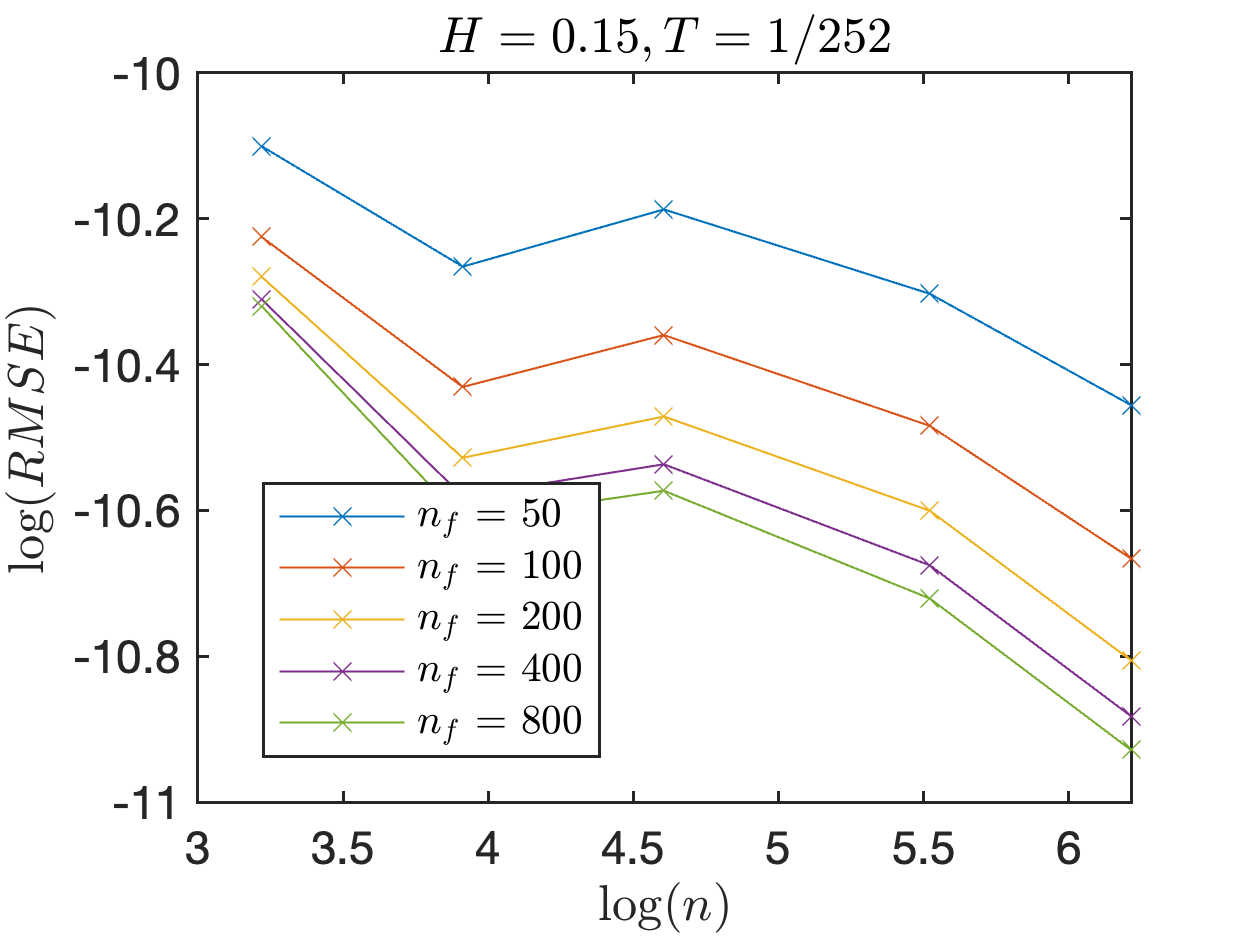
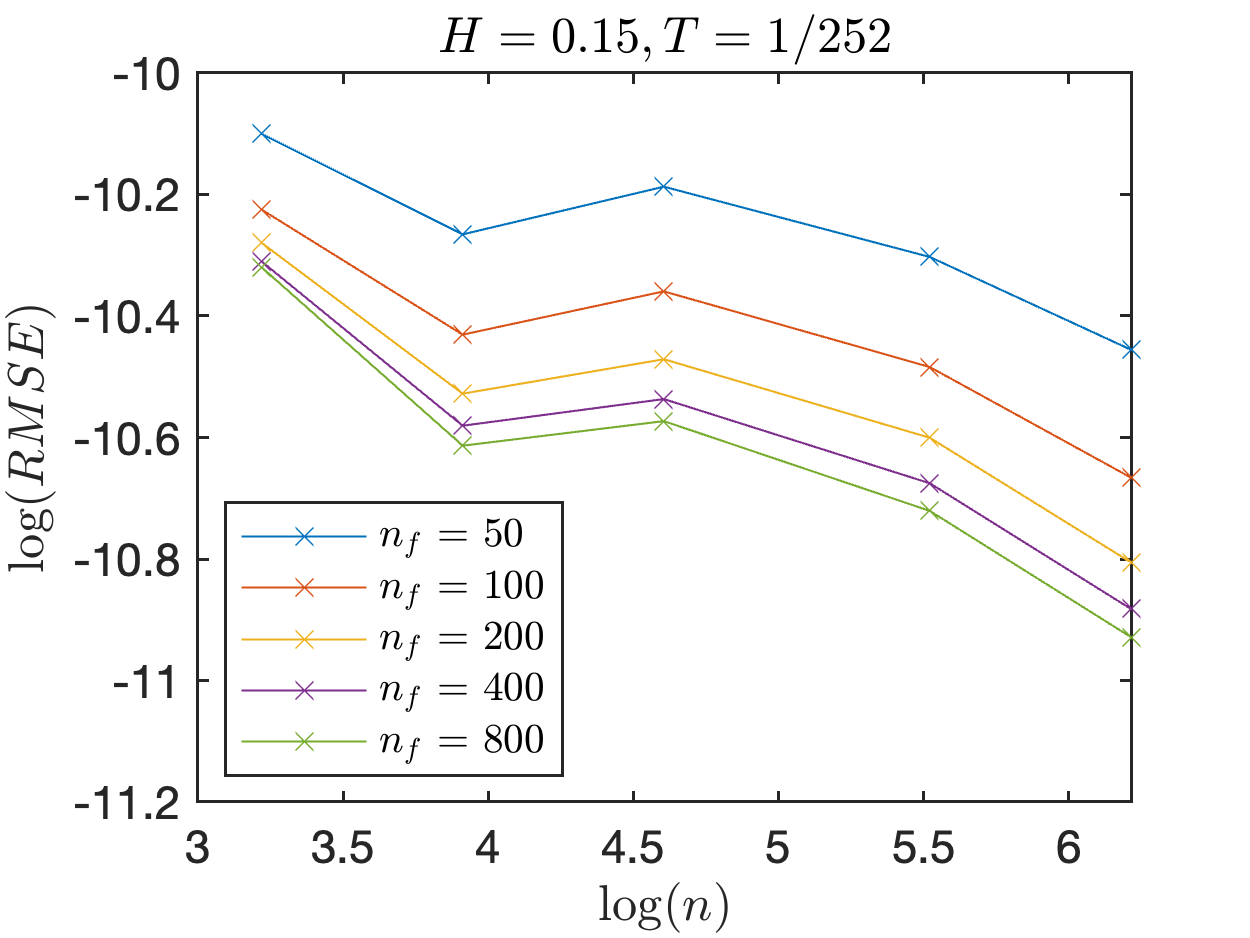
Finished convergence test w.r.t. n with varying nf

diff --git a/Simulation/convergence_test.m b/Simulation/convergence_test.m
@@ -88,4 +88,41 @@ elseif taskId == 2
     print(gcf, '-dpng', '-r300', "assets/"+instanceName+".png");
 end
 
-%% manual plot
+%% manual plot (for adjusting figures)
+is_enable = 0;
+if is_enable == 1
+    filename = "assets/conv1/42_conv1_1Day_point15H";
+    resStr = jsondecode(fileread(filename+'.json'));
+    alw = 0.75;    % AxesLineWidth
+    fsz = 11;      % Fontsize
+    lw = 1.5;      % LineWidth
+    msz = 8;       % MarkerSize
+    if ismac
+        width = 3;     % Width in inches
+        height = 2.25;    % Height in inches
+    elseif ispc
+        width = 4;     
+        height = 3;   
+    end
+    
+    figure;
+    pos = get(gcf, 'Position');
+    set(gcf, 'Position', [pos(1) pos(2) width*100, height*100]); %<- Set size
+    set(gca, 'FontSize', fsz, 'LineWidth', alw); %<- Set properties
+    
+    hold on;
+    for k = 1 : numel(nfList)
+        mask = [resStr.nf] == nfList(k);
+        data = resStr(mask);
+        plot(log([data.n]), log([data.rmse]), 'DisplayName', ...
+            sprintf("$n_f$ = %d", nfList(k)), 'Marker', 'x');
+    end
+    title("$H = 0.15, T = 1/252$", 'Interpreter', 'latex');
+    xlabel("$\log(n)$", 'Interpreter', 'latex');
+    ylabel("$\log(RMSE)$", 'Interpreter', 'latex');
+    ylim([-11.2, -10]);
+    grid off;
+    box on;
+    legend('Interpreter','latex','Location','southwest');
+    print(gcf, '-dpng', '-r300', filename+'.png'); 
+end
